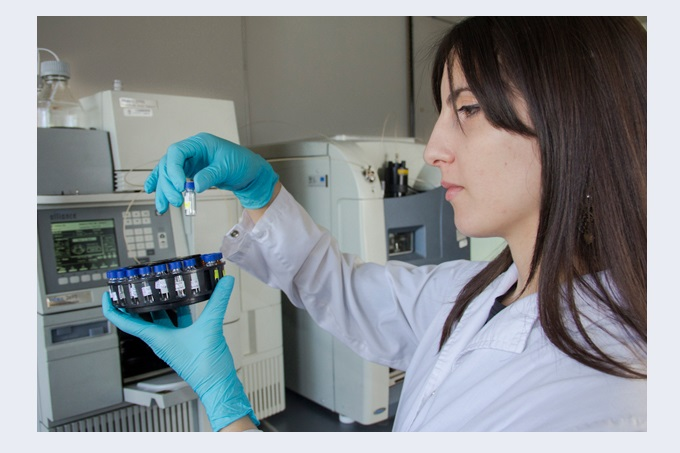
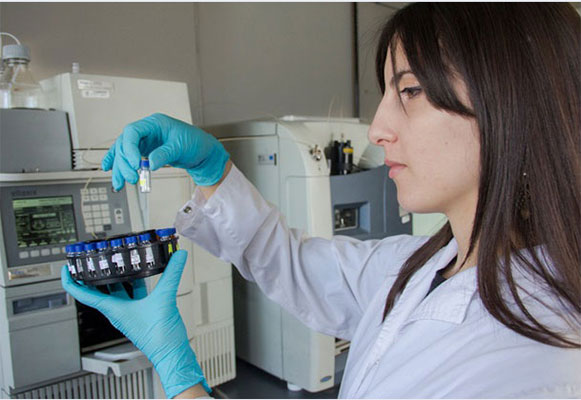
correcciones y sincronizacion

diff --git a/dcilaboratorio/protected/views/layouts/index.html b/dcilaboratorio/protected/views/layouts/index.html
@@ -48,7 +48,7 @@ License: You must have a valid license purchased only from themeforest(the above
 <link href="../../assets/admin/layout4/css/themes/light.css" rel="stylesheet" type="text/css" id="style_color"/>
 <link href="../../assets/admin/layout4/css/custom.css" rel="stylesheet" type="text/css"/>
 <!-- END THEME STYLES -->
-<link rel="shortcut icon" href="favicon.ico"/>
+<link rel="shortcut icon" href="<?= Yii::app()->request->baseUrl ?>/css/layout/img/favicon.png"/>
 </head>
 <!-- END HEAD -->
 <!-- BEGIN BODY -->

diff --git a/dcilaboratorio/protected/views/site/index.php b/dcilaboratorio/protected/views/site/index.php
@@ -55,10 +55,10 @@ else{
 		<div class="col-md-3"></div>
 		<div  id="slider" class=" col-md-6 text-right">
 			<figure>
-				<img src="<?php echo Yii::app()->request->baseUrl; ?>/css/layout/img/lab5.png" WIDTH=470 HEIGHT=365 alt="">
-				<img src="<?php echo Yii::app()->request->baseUrl; ?>/css/layout/img/lab1.jpg" WIDTH=470 HEIGHT=365  alt="">
-				<img src="<?php echo Yii::app()->request->baseUrl; ?>/css/layout/img/lab2.jpg" WIDTH=470 HEIGHT=365 alt="">
-				<img src="<?php echo Yii::app()->request->baseUrl; ?>/css/layout/img/lab.jpg" WIDTH=470 HEIGHT=365 alt="">
+				<img src="<?php echo Yii::app()->request->baseUrl; ?>/css/layout/img/lab5.png" WIDTH=421 HEIGHT=400 alt="">
+				<img src="<?php echo Yii::app()->request->baseUrl; ?>/css/layout/img/lab1.jpg" WIDTH=581 HEIGHT=400  alt="">
+				<img src="<?php echo Yii::app()->request->baseUrl; ?>/css/layout/img/lab2.jpg" WIDTH=495 HEIGHT=400 alt="">
+				<img src="<?php echo Yii::app()->request->baseUrl; ?>/css/layout/img/lab.jpg" WIDTH=474 HEIGHT=400 alt="">
 			</figure>
 		</div>
 	</div>
@@ -88,7 +88,7 @@ else{
 }
 
 body { margin: 0; }
-div#slider { overflow: hidden; }
+div#slider { overflow: hidden; padding: 0; margin-top: 20px;}
 div#slider figure img { width: 20%; float: left; }
 div#slider figure {
   position: relative;

diff --git a/dcilaboratorio/protected/views/layouts/main.php b/dcilaboratorio/protected/views/layouts/main.php
@@ -59,7 +59,7 @@
 	<link rel="stylesheet" type="text/css" href="<?php echo Yii::app()->request->baseUrl; ?>/css/global/plugins/bootstrap-datetimepicker/css/bootstrap-datetimepicker.min.css"/>
 
 	<!-- END THEME STYLES -->
-	<link rel="shortcut icon" href="fav	icon.ico"/>
+	<link rel="shortcut icon" href="<?= Yii::app()->request->baseUrl ?>/css/layout/img/favicon.png"/>
 	<script src="<?php echo Yii::app()->request->baseUrl; ?>/css/global/plugins/jquery.min.js" type="text/javascript"></script>
 	<script src="<?php echo Yii::app()->request->baseUrl; ?>/css/global/plugins/jquery-migrate.min.js" type="text/javascript"></script>
 
@@ -102,7 +102,7 @@
 		<!-- BEGIN LOGO -->
 		<div class="page-logo" >
 			<a href="<?php echo Yii::app()->request->baseUrl; ?>/index.php" >
-			<center><img src="<?php echo Yii::app()->request->baseUrl; ?>/css/layout/img/logoNuevo.png" alt="logo" height="65" width="65" class="logo-default"/></center>
+			<center><img src="<?php echo Yii::app()->request->baseUrl; ?>/css/layout/img/logo.png" alt="logo" height="65" width="65" class="logo-default"/></center>
 			</a>
 			<div class="menu-toggler sidebar-toggler">
 				<!-- DOC: Remove the above "hide" to enable the sidebar toggler button on header -->

diff --git a/dcilaboratorio/protected/views/layouts/login.php b/dcilaboratorio/protected/views/layouts/login.php
@@ -42,7 +42,7 @@ License: You must have a valid license purchased only from themeforest(the above
 		<link href="<?php echo Yii::app()->request->baseUrl; ?>/css/layout/css/custom.css" rel="stylesheet" type="text/css"/>
 		<link href="<?php echo Yii::app()->request->baseUrl; ?>/css/custom/customStyle.css" rel="stylesheet" type="text/css"/>
 		<!-- END THEME STYLES -->
-		<link rel="shortcut icon" href="favicon.ico"/>
+		<link rel="shortcut icon" href="<?= Yii::app()->request->baseUrl ?>/css/layout/img/favicon.png"/>
 	</head>
 	<!-- END HEAD -->
 	<!-- BEGIN BODY -->
@@ -55,7 +55,7 @@ License: You must have a valid license purchased only from themeforest(the above
 		<!-- BEGIN LOGO -->
 		<div class="side-bar col-md-3 col-sm-12">
 			<div class="row col-12" style="text-align:center;">
-				<img src="<?php echo Yii::app()->request->baseUrl; ?>/css/layout/img/logoNuevo.png" height="100" alt="Laboratorio"/>
+				<img src="<?php echo Yii::app()->request->baseUrl; ?>/css/layout/img/logo.png" height="100" alt="Laboratorio"/>
 			</div>
 			<br/>
 			<div class="">

diff --git a/dcilaboratorio/protected/views/layouts/mail.php b/dcilaboratorio/protected/views/layouts/mail.php
@@ -6,7 +6,7 @@
 				<tr>
 					<td>
 						<a href="http://www.dcilaboratorio.com/" style="float:left;">
-							<img class="img" src="logoNuevo.png" alt="logo"  height="50" width="60" class="logo-default" alt="dcilaboratorio.com" />
+							<img class="img" src="logo.png" alt="logo"  height="50" width="60" class="logo-default" alt="dcilaboratorio.com" />
 						</a>
 					</td>
 					<td style="text-align: center;" width="100%">
